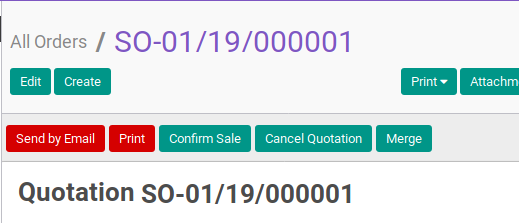
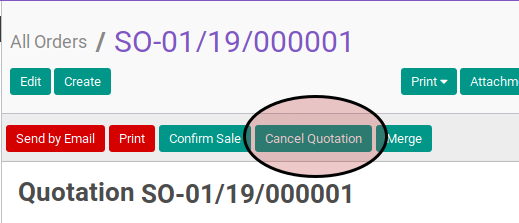
Cancel sales order

Changed region(s): [[0.4624, 0.4036, 0.7707, 0.8072]]

diff --git a/src/transaksi/sales-order/batal.md b/src/transaksi/sales-order/batal.md
@@ -1,1 +1,39 @@
 # Membatalkan Sales Order
+
+## A. INPUT
+
+* Data sales order yang akan dibatalkan harus memiliki status (1) **Draft Quotation**, atau (2) **Sales Order**, atau (3) **Sale To Invoice**
+
+![](../../img/sales-order/status-sales-order.png)
+
+![](../../img/sales-order/status-sales-to-invoice.png)
+
+* User yang akan membatalkan harus memiliki akses untuk membatalkan sales order.
+
+## B. LANGKAH KERJA
+
+1. Buka menu **Sales -> Sales -> All Orders**. Abaikan jika sudah berada
+pada menu yang dimaksud.
+2. Buka data sales order yang akan dibatalkan. Abaikan jika data sudah dibuka.
+3. Klik tombol **Cancel Quotation** atau **Cancel Order** pada bagian atas-kiri form.
+
+![](../../img/sales-order/tombol-cancel.png)
+
+![](../../img/sales-order/tombol-cancel-order.png)
+
+Pop-up **Reason for Cancellation** akan muncul
+
+![](../../img/sales-order/pop-up-cancel-reason.png)
+
+4. Pilih **Reason** sesuai dengan alasan pembatalan
+5. Klik tombol **Confirm** pada bagian bawah-kiri pop-up **Reason for Cancellation**
+
+![](../../img/sales-order/tombol-confirm-cancel.png)
+
+## C. OUTPUT
+
+* Status dari sales order akan berubah menjadi **Cancelled**
+
+![](../../img/sales-order/status-cancelled.png)
+
+* Isian sales order sudah tidak bisa diubah
